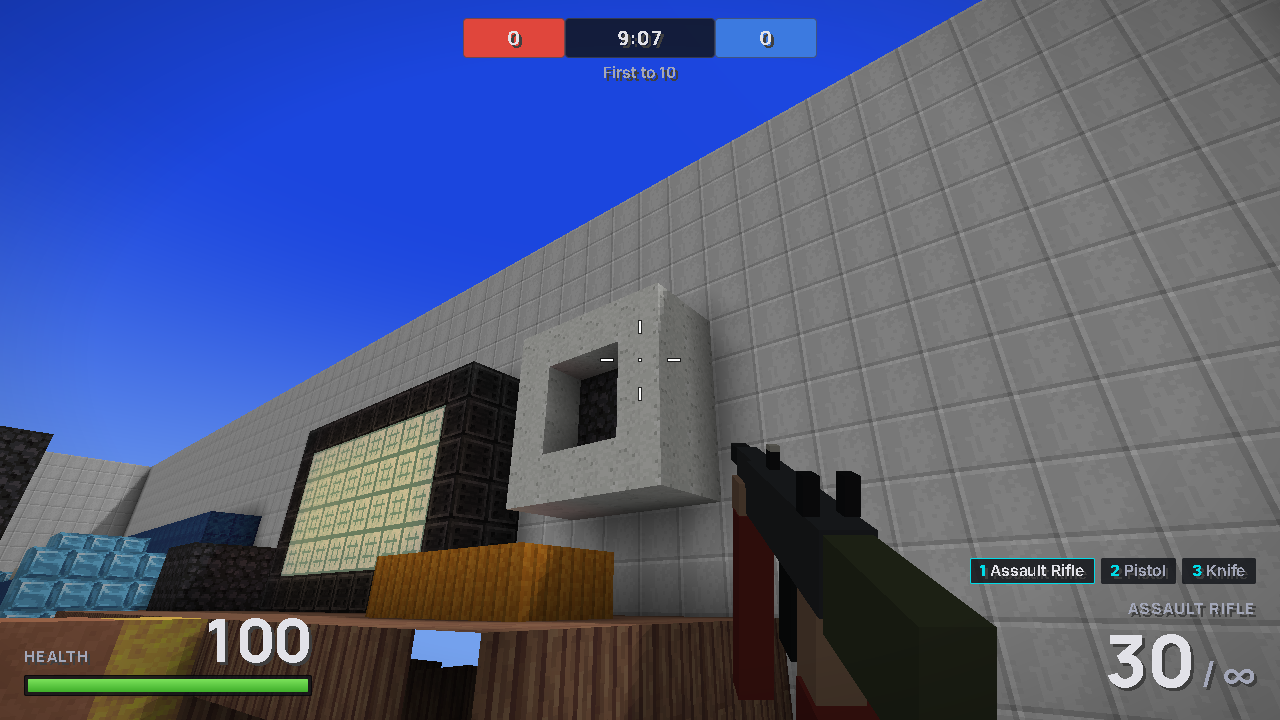
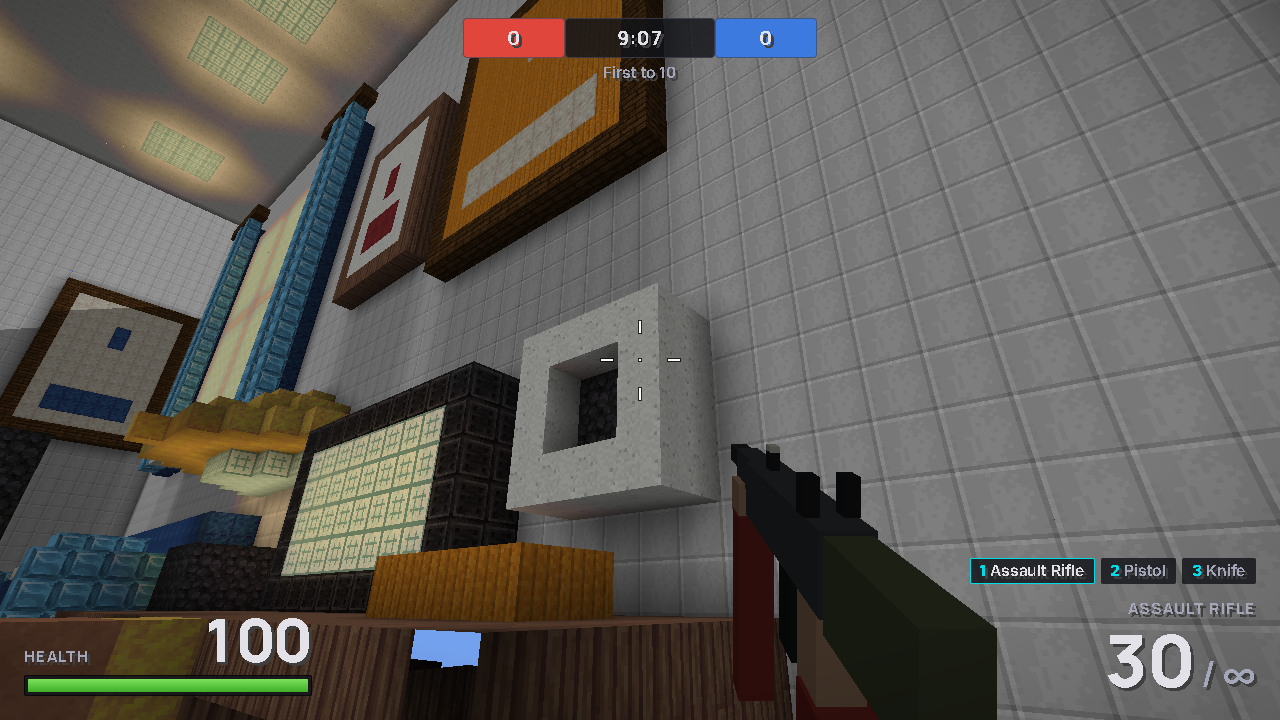
Couch Canyon and Workbench Run: roofed rooms, window, door, clock, posters, giant props; docs (Dutch)

diff --git a/src/modes/maps/couch.ts b/src/modes/maps/couch.ts
@@ -3,6 +3,7 @@ import { type FreeArenaMapDef, type LayoutBuilder, TEAM } from './ArenaMap';
 import { AIR, turn, turned } from './helpers';
 import { C } from './props';
 import { disc, ramp, socket, table } from './giant';
+import { type Wall, ceiling, centerLamp, clock, curtain, doorway, poster, sock, toyBrick, windowPane } from './giantRoom';
 
 /**
  * "Couch Canyon": the players are mice in a normal living room. A giant sofa (red half) and a TV unit (the same
@@ -37,6 +38,9 @@ const COOL: Palette = {
   floorA: C.DARK_OAK_PLANKS, floorB: BLOCK.SPRUCE_PLANKS, rug1: BLOCK.BLUE_WOOL, rug2: C.LAPIS_BLOCK, rug3: BLOCK.WHITE_WOOL,
   fabric: BLOCK.BLUE_WOOL, fabric2: C.DIAMOND_BLOCK, wood: C.DARK_OAK_PLANKS, pot: C.COPPER_BLOCK, slipper: BLOCK.GREEN_WOOL,
 };
+
+/** The living room is 40 blocks high (the walls); the ceiling is the layer above. */
+const ROOM_H = 40;
 
 const RED_SPAWNS: [number, number][] = [[-31, -6], [-29, -3], [-31, 0], [-29, 3], [-31, 5], [-29, 6]];
 const FFA_WEST: [number, number][] = [[-27, -11], [-19, -9], [-30, 17], [-20, 11], [-12, -3], [-6, -12]];
@@ -129,6 +133,25 @@ function half(b: LayoutBuilder, s: 1 | -1, p: Palette): void {
   box(-8, -8, -3, 2, 4, 4, C.COAL_BLOCK);
   box(-8, -8, -2, -2, 5, 5, C.REDSTONE_BLOCK);
   box(-4, -3, -4, -4, 4, 5, p.fabric2);
+  dress(t, p);
+}
+
+/** The room itself: ceiling, a window with curtains over the sofa, door, clock, posters and a few giant everyday things. */
+function dress(t: LayoutBuilder, p: Palette): void {
+  const N: Wall = { axis: 'z', at: -22, dir: 1 }, W: Wall = { axis: 'x', at: -34, dir: 1 }, S: Wall = { axis: 'z', at: 21, dir: -1 };
+  ceiling(t, -34, -1, -22, 21, ROOM_H + 1, [[-26, -14, 2], [-12, -14, 2], [-26, 0, 2], [-26, 14, 2], [-12, 14, 2], [-4, 14, 2], [-4, -14, 2]]);
+  windowPane(t, N, -20, -8, 14, 32, BLOCK.WHITE_WOOL);
+  curtain(t, N, -25, -22, 13, 34, p.fabric, p.fabric2);
+  curtain(t, N, -6, -3, 13, 34, p.fabric, p.fabric2);
+  doorway(t, W, 10, 17, 26, p.wood, C.DARK_OAK_PLANKS);
+  clock(t, W, 13, 33, 4, BLOCK.WHITE_WOOL, p.wood);
+  poster(t, W, -20, -12, 16, 28, p.wood, BLOCK.WHITE_WOOL, p.fabric);
+  poster(t, S, -22, -12, 16, 28, C.DARK_OAK_PLANKS, p.fabric2, BLOCK.WHITE_WOOL);
+  poster(t, S, -9, -3, 18, 27, p.wood, C.CALCITE, p.fabric);
+  // Giant everyday things: toy bricks and a sock on the floor.
+  toyBrick(t, -31, -16, 4, 2, 1, BLOCK.RED_WOOL);
+  toyBrick(t, -29, -14, 2, 2, 2, BLOCK.YELLOW_WOOL);
+  sock(t, -23, 3, 6, BLOCK.WHITE_WOOL, p.fabric);
 }
 
 export const COUCH: FreeArenaMapDef = {
@@ -138,7 +161,8 @@ export const COUCH: FreeArenaMapDef = {
   description: 'Mice in a giant living room: tunnels under the sofa, a coffee table on a rug and a TV unit',
   halfX: 34,
   halfZ: 22,
-  wallHeight: 14,
+  wallHeight: ROOM_H,
+  room: { ceiling: ROOM_H + 2, playHeight: 14 },
   wallBlock: C.POLISHED_DIORITE,
   floorBlock: BLOCK.OAK_PLANKS,
   variants: 1,
@@ -161,5 +185,6 @@ export const COUCH: FreeArenaMapDef = {
   build(_variant, b) {
     half(b, 1, WARM);
     half(b, -1, COOL);
+    centerLamp(b, ROOM_H, 31, 7, BLOCK.YELLOW_WOOL);
   },
 };

diff --git a/src/modes/maps/workshop.ts b/src/modes/maps/workshop.ts
@@ -3,6 +3,7 @@ import { type FreeArenaMapDef, type LayoutBuilder, TEAM } from './ArenaMap';
 import { AIR, jumpPad, turn, turned } from './helpers';
 import { C } from './props';
 import { can, disc, ramp, socket, table } from './giant';
+import { type Wall, ceiling, centerLamp, clock, curtain, doorway, pencil, poster, windowPane } from './giantRoom';
 
 /**
  * "Workbench Run": the players are mice in a normal garage, so the garage is the level. A toy car the size of a
@@ -37,6 +38,9 @@ const BLUE_SHOP: Palette = {
   floorA: C.SMOOTH_STONE, floorB: C.CALCITE, metal: BLOCK.BLUE_WOOL, metal2: C.LAPIS_BLOCK, wood: BLOCK.SPRUCE_PLANKS,
   can1: C.PUMPKIN, can2: BLOCK.WHITE_WOOL, car: BLOCK.BLUE_WOOL, light: C.REDSTONE_BLOCK,
 };
+
+/** The garage is 40 blocks high (the walls); the ceiling is the layer above. */
+const ROOM_H = 40;
 
 const RED_SPAWNS: [number, number][] = [[-31, -6], [-29, -3], [-31, 0], [-29, 3], [-31, 5], [-29, 6]];
 const FFA_WEST: [number, number][] = [[-27, -11], [-19, -9], [-30, 18], [-20, 11], [-14, 2], [-6, -12]];
@@ -156,6 +160,23 @@ function half(b: LayoutBuilder, s: 1 | -1, p: Palette): void {
   box(-11, -9, 5, 7, 1, 2, BLOCK.OAK_PLANKS);
   box(-23, -21, -2, 0, 1, 2, BLOCK.OAK_PLANKS);
   box(-10, -8, 11, 13, 1, 3, BLOCK.OAK_PLANKS);
+  dress(t, p);
+}
+
+/** The room itself: ceiling with strip lights, a window over the bench, a roller door, clock, posters and a few giant things. */
+function dress(t: LayoutBuilder, p: Palette): void {
+  const N: Wall = { axis: 'z', at: -22, dir: 1 }, W: Wall = { axis: 'x', at: -34, dir: 1 }, S: Wall = { axis: 'z', at: 21, dir: -1 };
+  ceiling(t, -34, -1, -22, 21, ROOM_H + 1, [[-26, -14, 2], [-12, -14, 2], [-26, 0, 2], [-26, 14, 2], [-12, 14, 2], [-4, 14, 2], [-4, -14, 2]]);
+  windowPane(t, N, -22, -8, 14, 30, C.IRON_BLOCK);
+  curtain(t, N, -27, -25, 13, 20, p.metal, p.metal2);
+  curtain(t, N, -5, -3, 13, 20, p.metal, p.metal2);
+  doorway(t, W, -19, -10, 30, C.SMOOTH_STONE, C.IRON_BLOCK);
+  clock(t, W, 14, 30, 4, BLOCK.WHITE_WOOL, C.IRON_BLOCK);
+  poster(t, W, 9, 19, 14, 24, C.IRON_BLOCK, BLOCK.WHITE_WOOL, p.metal);
+  poster(t, S, -22, -12, 16, 28, C.COAL_BLOCK, p.metal2, BLOCK.YELLOW_WOOL);
+  poster(t, S, -9, -3, 18, 27, C.IRON_BLOCK, BLOCK.WHITE_WOOL, p.metal);
+  // Giant everyday things: a pencil.
+  pencil(t, -32, -18, 8, true);
 }
 
 export const WORKSHOP: FreeArenaMapDef = {
@@ -165,7 +186,8 @@ export const WORKSHOP: FreeArenaMapDef = {
   description: 'Mice in a giant garage: a toy car, a workbench with a tyre spring board and a steel rack',
   halfX: 34,
   halfZ: 22,
-  wallHeight: 14,
+  wallHeight: ROOM_H,
+  room: { ceiling: ROOM_H + 2, playHeight: 14 },
   wallBlock: C.ANDESITE,
   floorBlock: C.POLISHED_ANDESITE,
   variants: 1,
@@ -188,5 +210,6 @@ export const WORKSHOP: FreeArenaMapDef = {
   build(_variant, b) {
     half(b, 1, RED_SHOP);
     half(b, -1, BLUE_SHOP);
+    centerLamp(b, ROOM_H, 31, 7, C.IRON_BLOCK);
   },
 };

diff --git a/scripts/shots.py b/scripts/shots.py
@@ -100,18 +100,22 @@ VIEWS = {
         ('window', *look((-19, F + 7.6, 6), (-19, F + 22, -21))), ('door', *look((-24, E, 14), (-33, F + 12, 14))),
     ],
     'couch': [
-        ('top', *top(56)), ('red', *look((-30.5, E, -1.5), (0, F + 3, 0))), ('sofa', *look((-10, E, -11), (-14, F + 4, -19))),
+        ('top', *top(39)), ('red', *look((-30.5, E, -1.5), (0, F + 3, 0))), ('sofa', *look((-10, E, -11), (-14, F + 4, -19))),
         ('tunnel', *look((-5, F + 2.4, -12), (-14, F + 1.8, -18))), ('table', *look((-20, E, 0.5), (0, F + 4, 0.5))),
         ('tv', *look((-21, E, 9), (-12, F + 6, 20))), ('seat', *look((-23, F + 5.6, -17), (-4, F + 5, -17))),
         ('lamp', *look((-14, E, -6), (-8, F + 8, -12))), ('rug', *look((-3, F + 5.6, -2), (12, F + 2, 3))),
         ('lane', *look((-30, E, -12), (0, F + 4, -12))), ('socket', *look((-28, E, 12), (-21, F + 8, 21))),
+        ('room', *look((31, F + 30, 18), (-14, F + 12, -8))), ('ceiling', *look((-10, E, 8), (-1, F + 36, -1))),
+        ('window', *look((-14, F + 8, 6), (-14, F + 22, -21))), ('door', *look((-24, E, 14), (-33, F + 12, 14))),
     ],
     'workshop': [
-        ('top', *top(56)), ('red', *look((-30.5, E, -1.5), (0, F + 3, 0))), ('bench', *look((-22, E, -8), (-12, F + 6, -19))),
+        ('top', *top(39)), ('red', *look((-30.5, E, -1.5), (0, F + 3, 0))), ('bench', *look((-22, E, -8), (-12, F + 6, -19))),
         ('car', *look((-12, E, 9.5), (-4, F + 3.5, 0))), ('tunnel', *look((-4.5, F + 2.6, 0.5), (9, F + 2, 0.5))),
         ('spring', *look((-23, E, -9), (-15.5, F + 3, -12.5))), ('rack', *look((-29, E, 12), (-12, F + 5, 18))),
         ('toolbox', *look((-24, E, 0), (-18, F + 4, 5))), ('socket', *look((-26, E, 12), (-29, F + 8, 21))),
         ('shelf', *look((-23, F + 4.6, 18), (-8, F + 7, 19))), ('paint', *look((-14, E, -6), (-8, F + 4, -11))),
+        ('room', *look((31, F + 30, 18), (-14, F + 12, -8))), ('ceiling', *look((-10, E, 8), (-1, F + 36, -1))),
+        ('window', *look((-14, F + 8, 6), (-14, F + 22, -21))), ('door', *look((-24, E, 14), (-33, F + 12, 14))),
     ],
     'villa': [
         ('top', *top(60)), ('red', *look((-40.5, E, -2.5), (0, F + 3, 0))), ('front', *look((-30, F + 7, 3), (-8, F + 3, 0))),

diff --git a/docs/research/MAPS.md b/docs/research/MAPS.md
@@ -131,6 +131,33 @@ Gevechten beginnen dichter bij (20-23 tegen 29 blokken) en lange lijnen zijn weg
 bouwen: bots lopen langs de rand tussen lane en midden, dus de lange lijnen zaten niet in de lanes zelf maar op die rand; een
 blokker van 3-4 breed en 7-8 hoog op elke rand bracht `long%` van 11 naar 0. Schermafbeeldingen: `docs/screenshots/maps/{pantry,couch,workshop}-*.png`.
 
+### Reuzenhuis ronde 2: dichte kamer (plafond, schaalhints)
+
+De open lucht en lage muren maakten van het meubilair blokken. Nu zijn de drie kaarten een echte kamer:
+
+- **Engine**: `room?: { ceiling, playHeight }` op `ArenaMapDef`/`FreeArenaMapDef`. `wallHeight` is dan de kamerhoogte (40), de dekkingsopslag
+  loopt door tot `ceiling` (42 lagen i.p.v. `MAX_COVER` = 10) en de laag boven de muur (het plafond) ligt ook over de muurring
+  (`ArenaMap.aboveWall`). `playHeight` (14) is wat `heightAt` (zones, vlaggen) nog als oppervlak telt, zodat wat aan het plafond hangt
+  of tegen de muur zit nooit een oppervlak wordt. Kaarten zonder `room` zijn byte-identiek: `tests/room.test.ts` heeft gouden hashes van
+  alle 17 andere kaarten (genomen voor deze wijziging) en test dat elke roomkaart een dicht plafond heeft. Chunkhoogte 128 en vloer 64
+  geven plaats tot laag 63; de kamer gebruikt 42.
+- **Licht**: nieuw blok `CEILING` (id 234, textuur van calciet, `transparent` + `lightFilter 0`, onzichtbaar in de inventaris). Het is
+  solide (kogels, granaten en spelers stuiten) maar laat skylight rechtdoor vallen, dus de kamer blijft even helder als de open arena;
+  zeelantaarns in het plafond zijn de lichtpanelen en de hanglamp (alleen optisch: blokslicht reikt 15 blokken). Let op: in de preview
+  deed de schaduwpass niet mee (0 shadow-calls); met schaduwen aan werpt het plafond schaduw over de hele kamer (de zon telt dan niet
+  meer mee, ambient/skylight blijft), nog niet apart beoordeeld.
+- **Prestaties** (Chromium `--use-angle=metal`, 1280 × 720, drie standpunten): atomic en pantry halen allebei de 120 FPS-vsync
+  (p50 8,3 ms, p99 10,3 ms); drawcalls 79 (atomic) tegen 54 (pantry), driehoeken 52k tegen 60k. Het plafond is één greedy vlak per chunk.
+- **Schaalhints**: raam met gordijnen en vensterbank, deur met een lichtstreep eronder en paneelnaden, klok, drie posters, plinten,
+  handvatten en ladevoorkant op het aanrecht, stekker van de broodrooster in het stopcontact, en een munt, kroonkurk en potlood op
+  de vloer (pantry), speelgoedblokjes en een sok (couch), een potlood en tl-lichtpanelen (workshop). Props staan buiten de
+  looplijnen: een munt onder de deegrollerbrug zette `first` van 2,5 naar 3,2 s en een kroonkurk/munt bij de vlag brak de vlagtest
+  (`map-flow`/`mapObjectives`), dus die staan nu op randen.
+- **Flow** (`map-flow`, kaartvergelijking met ronde 1): Pantry 2,6/3,7/3,1 s (ronde 1: 2,5/3,6/3,1), Couch 4,6/4,1/3,3 (4,4/4,1/3,3),
+  Workshop 3,4/3,9/3,3 (3,6/3,9/3,3): first/spawn→see/gap, geen verslechtering.
+- Schermafbeeldingen: `docs/screenshots/maps/{pantry,couch,workshop}-{room,ceiling,window,door,...}.png` (`scripts/shots.py`; de
+  `top`-view zit nu onder het plafond, op 39 blokken).
+
 ## Wat nog beter kan
 
 - **Classic** is compact gemaakt (zie boven); echte playtests moeten uitwijzen of de deuren van de bases niet te veel kampeerplekken geven.

diff --git a/docs/GAMEMODES.md b/docs/GAMEMODES.md
@@ -195,6 +195,11 @@ maar de twee kanten zien er anders uit. Screenshots: `docs/screenshots/maps/<id>
   oostelijke helft is de westelijke 180° gedraaid, met een eigen palet), spawns in een holle kast/fauteuil/gereedschapskist met
   uitgangen noord en zuid, een middenlandmark met een tunnel eronder en een platform erboven, hoge dekking om de paar blokken en
   geen enkele plek op de vijandelijke helft die een spawn ziet (`spawnExposure.test.ts`).
+  Ronde 2: de kamer is dicht. De muren zijn 40 blokken hoog (`wallHeight: 40`) en erboven ligt een plafond (laag 41, blokken
+  `CEILING` met lichtpanelen van zeelantaarns en een hanglamp boven het midden), dus de lucht verdwijnt en alles op speelhoogte
+  (14) leest als meubel op reuzenschaal. Per kaart: raam met gordijnen, deur met een lichtstreep eronder, klok, posters/lijsten,
+  plinten, laden met handvatten en grote alledaagse spullen (munt, kroonkurk, potlood, speelgoedblokjes, sok) in
+  `src/modes/maps/giantRoom.ts`. Engine: `ArenaMapDef.room = { ceiling, playHeight }` (zie `docs/research/MAPS.md`).
   - **Pantry Panic**: een keuken. In het midden een tafel met een rood/wit (west) en blauw/wit (oost) tafelkleed, borden,
     een cornflakesdoos en zoutvaatjes erop; kookboekhellingen van één, twee en drie hoog (stapels boeken) leiden erheen. Langs
     de noordmuur een aanrecht met een gootsteen (het water is ijs), een broodrooster, een messenblok en een stopcontact, bereikbaar
